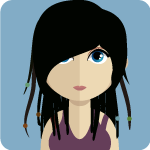
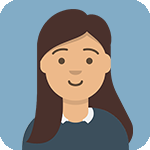
intergrate marie work

diff --git a/index.html b/index.html
@@ -74,97 +74,188 @@
 
         <div id="core" class="container">
             <div id="catchphrase">
-                <h1 class="text-lighter">
+			    <h1 class="text-lighter">
                     <b>11H42 vous accompagne </b>pour transformer votre idée en réalité !</h1>
-                <hr>
-                <h1 class="text-lighter">
-                    Il vous manque l'expertise technique, le recul nécessaire afin de prendre les bonnes décisions ?
-                    <br/>
-                    <b>Ensemble, nous pouvons le faire !</b>
-                </h1>
+			</div>					
+			<div class="row">		
+				<div class="col-sm-6 col-xs-12">
+					<h1 class="section-title text-orange" align="left">11H42 - QUI SOMMES NOUS ?</h1>
+					<h2 class="text-lighter" align="left">
+						ACCÉLÉRATEUR DE PROJETS NUMÉRIQUES </h2>
+					<hr>
+					<h2 class="text-lighter" align="left">
+						<b> 11h42 </b> est l'accélérateur de projet numériques de la société 
+						<b>
+							<a href="http://akema.fr" target="_blank">AKEMA SAS
+							</a>
+						</b>
+						11h42 est spécialisé dans le développement de <b> logiciels métier </b> et d’<b>application web et mobile </b>. Avec nos équipes d’experts nous vous accompagnons dans votre projet digital.
+						Nous sommes à vos côtés pour votre développement informatique.	
+					</h2>
+				</div>
+				<div class="col-sm-6 col-xs-12">
+					<h1 class="text-lighter">
+						<br />
+						<br />
+						<br />
+						Il vous manque l'expertise technique, le recul nécessaire afin de prendre les bonnes décisions ?
+						<br/>
+						<b>Ensemble, nous pouvons le faire !</b>
+					
+					</h1>
+				</div>
             </div>
 
 
             <div id="presentation">
                 <h1 class="section-title text-orange">11H42 - LE CONCEPT</h1>
                 <h2 class="text-lighter">
-                    <b>11H42</b> est l'accélérateur de projet numériques de la société
-                    <b>
-                        <a href="http://akema.fr" target="_blank">AKEMA SAS
-                        </a>
+
                     </b>
-                    <br/> Afin de transformer vos idées en projets, nous seront à vos côtés sur les points suivants :
+                    <br/> Afin de transformer vos idées en projets, nous serons à vos côtés sur les points suivants :
                 </h2>
                 <div class="row">
                     <div class="service-picto col-md-3 col-sm-6 col-xs-12">
                         <img src="./static/images/accompagnement.png" alt="Accompagnement">
-                        <h2>Accompagnement</h2>
+                        <h2>On vous accompagne dès le début</h2>
                         <hr>
-                        <h3 class="text-lighter">Ciblage des idées, montage du dossier et du cahier des charges</h3>
+                        <h3 class="text-lighter">Écoute et découverte du projet <br />Ciblage des idées <br />Etude de faisabilité (POC)<br />Réalisation de cahier des charges <br />Budgétisation </h3>
                     </div>
                     <div class="service-picto col-md-3 col-sm-6 col-xs-12">
                         <img src="./static/images/faisabilite.png" alt="Faisabilité">
-                        <h2>Faisabilité</h2>
+                        <h2>Création, Conception et développement</h2>
                         <hr>
-                        <h3 class="text-lighter">Réalisation des études de faisabilité (v0.0) jusqu'au prototype fonctionnel
+                        <h3 class="text-lighter">Charte graphique <br />Expérience utilisateur UX <br />Interface utilisateur UI <br />Responsive design <br />Développement technique <br />Prototype fonctionnel
                         </h3>
                     </div>
                     <div class="service-picto col-md-3 col-sm-6 col-xs-12">
                         <img src="./static/images/creation.png" alt="Création">
-                        <h2>Création</h2>
+                        <h2>Test & Recette</h2>
+						<br />
                         <hr>
-                        <h3 class="text-lighter">Création et tutorat pour la constitution de votre structure</h3>
+                        <h3 class="text-lighter">Réalisation de test unitaire <br />On s'adapte à vos contraintes métiers <br />Intégration en continu <br />Optimisations techniques</h3>
                     </div>
                     <div class="service-picto col-md-3 col-sm-6 col-xs-12">
                         <img src="./static/images/assistance.png" alt="Assistance">
-                        <h2>Assistance</h2>
+                        <h2>Livraison et Installation</h2>
+						<br />
                         <hr>
-                        <h3 class="text-lighter">Valorisation et mise en avant de votre projet et de votre entreprise</h3>
+                        <h3 class="text-lighter">Installation du logiciel <br />Accompagnement dans la prise en main <br />Transfert de compétences <br />Assistance technique</h3>
                     </div>
                 </div>
             </div>
-
+			
+            <div id="Nos services">
+                <h1 class="section-title text-orange">11H42 - NOS SERVICES</h1>
+				<h2> Création de logiciel sur-mesure </h2>
+                <div class="row">
+				    <br />
+                    <div class="col-sm-6 col-xs-12">
+                        <h2>Applications métiers Web et Mobiles</h2>
+                        <hr>
+                        <h3 class="text-lighter">Vous avez une super idée d'application innovante mais vous ne savez pas comment la mettre en place ? Venez partager votre idée avec nos experts et on sera ravi de vous conseiller et de développer pour vous votre application !</h3>
+                        <h2>Logiciels métiers professionnels</h2>
+                        <hr>
+                        <h3 class="text-lighter">Vous ne trouvez pas de logiciel métier répondant à votre besoin . 11h42 vous accompagne dans votre transformation numérique. On s'adapte à vos besoins et nous développons un logiciel sur mesure adapté à votre structure et à votre activité.
+                        </h3>
+                    </div>
+                    <div class="col-sm-6 col-xs-12">
+                <div class="réalisations">
+					    <br />
+	                    <br />
+				        <a href="https://www.jepilotemonentreprise.com/"target="_blank" ><img src="./static/images/logo-je-pilote-entreprise.png" align="left" alt="Logo Je pilote mon Entreprise" border="0"></a>
+						<a href="https://apidae.biz/" target="_blank" ><img src="./static/images/apidae.png" align="center" alt="Logo Apidae" border="0"></a>
+                        <a href="https://preva.fr/logiciel/" target="_blank" ><img src="./static/images/logo-preva.png" align="right" alt="Logo Preva" border="0"></a>
+					    <br />
+	                    <br />
+						<br /> 
+						<a href="https://akemail.fr/" target="_blank" ><img src="./static/images/akemail.png" align="left" alt="Logo Akemail" border="0"></a>
+						<a href="https://www.overfull.fr/" target="_blank" ><img src="./static/images/Overfull.png" align="center" alt="Logo Overfull" border="0"></a>
+					    <br />
+	                    <br />
+		                <br />  
+						<a href="https://www.trilogie-sante.com/" target="_blank" ><img src="./static/images/logo-trilogie.png" align="right" alt="Logo Trilogie santé" border="0"></a>
+			        <br />
+					<br />
+					<br />
+					<br />
+                    <a href="#realisations">NOS RÉALISATIONS </a>	
+                </div>					
+                </div>
+				</div>
+            </div>
             <div id="le-lab">
-                <h1 class="section-title text-orange">LE LAB'</h1>
+                <h1 class="section-title text-orange">LE LAB': Nos domaines d'expertise</h1>
                 <h2 class="text-lighter">
                     <b>Le LAB 11h42</b>, c'est avant tout les valeurs suivantes :
                 </h2>
-                <div id="lab-values">
-                    <div class="value">
-                        <h2 class="text-lighter">
-                            <b>L'expertise open-source</b> :</h2>
+			</div>
+            <div id="clients-rows">
+                <div class="row">
+                    <div class="col-sm-6 col-xs-12 product">
+                        <h3>L'expertise open-source</h3>
                         <hr>
-                        <h3 class="text-lighter">En utilisant comme technologies principales Python & Django, notre expertise s’oriente autour de
-                            l’Audit de Code, la reprise d’activité, le transfert de compétences et la formation.
-                        </h3>
-                    </div>
-                    <div class="value">
-                        <h2 class="text-lighter">
-                            <b>L'expertise TDD</b> :</h2>
+                        <h2 class="text-lighter">En utilisant comme technologies principales Python & Django mais aussi JaveScript & Angular, SQL, HTML, CSS,... notre expertise s’oriente autour de l’Audit de Code, la reprise d’activité, le transfert de compétences et la formation.
+                        </h2>                               
+                        </div>
+
+                    <div class="col-sm-6 col-xs-12 product">
+                        <h3>L’expertise TDD</h3>
                         <hr>
-                        <h3 class="text-lighter">Le Développement piloté par les tests Méthode de développement logiciel dans laquelle l’écriture
-                            du code source est dirigée par l’écriture de tests automatisés. Efficace afin de livrer des logiciels
-                            bien construits à l'aide d'une suite de tests de non-régression.
-                        </h3>
-                    </div>
-                    <div class="value">
-                        <h2 class="text-lighter">
-                            <b>La constitution de briques logicielles</b> :</h2>
+                        <h2 <span class="text-lighter"> Le Développement piloté par les tests Méthode de Développement logiciel dans laquelle l’écriture du code source est dirigée par l’écriture de tests automatisés. Une intégration en continue permet de gagner en efficacité afin de livrer des logiciels bien construits à l'aide d'une suite de tests de non-régression.</h2>                               
+                                </span>                                   
+                                </div>
+                            </div>
+                <div class="row">
+                    <div class="col-sm-6 col-xs-12 product">
+                        <h3>La constitution de briques logicielles</h3>
                         <hr>
-                        <h3 class="text-lighter">Optimisation de développement afin de gagner en efficacité et productivité. Réutilisation des modules
-                            applicatifs.
-                        </h3>
-                    </div>
-                    <div class="value">
-                        <h2 class="text-lighter">
-                            <b>Le management des projets via les méthodes agiles</b> :</h2>
+                        <h2   <span class="text-lighter">Optimisation de développement afin de gagner en efficacité et productivité. Réutilisation des modules applicatifs. </h2>                               
+                                </span>                              
+                                </div>
+                <div class="col-sm-6 col-xs-12 product">
+
+                        <h3>Le management des projets via les méthodes agiles</h3>
                         <hr>
-                        <h3 class="text-lighter">Livraison de lots fonctionnels en fin de sprints. Flexibilité des réalisations selon les contraintes
-                            des clients.</h3>
+                        <h2 <span class="text-lighter">Livraison de lots fonctionnels en fin de sprints. Flexibilité des réalisations selon les contraintes des clients.</h2>                               .</span>
+
                     </div>
                 </div>
             </div>
-
+            <div id="missions">
+                <h1 class="section-title text-orange">LE LAB' : Nos Missions</h1>
+                <div class="row">
+                    <div class="service-picto col-md-3 col-sm-6 col-xs-12">
+                        <h2>Mettre à votre service notre expertise</h2>
+						<br />
+						<img src="./static/images/code.png" alt="Code" align="center" class="width-auto" >
+						<br />
+                        <hr>
+                        <h3 class="text-lighter">On développe un logiciel sur-mesure pour vous fournir un produit qui répond à vos attentes. </h3>
+                    </div>
+                    <div class="service-picto col-md-3 col-sm-6 col-xs-12">
+                        <h2>Vous accompagnez dans votre transformation digitale</h2>
+						<br />
+						<img src="./static/images/transformation digitale.png" class="width-auto" alt="Code" align="center" >
+                        <hr>
+                        <h3 class="text-lighter">On vous aide à mettre en oeuvre vos projets digitaux, pour une transformation numérique qui se passe bien.</h3>
+                    </div>
+                    <div class="service-picto col-md-3 col-sm-6 col-xs-12">
+                        <h2>Faire de votre projet un succès</h2>
+						<br />
+						<img src="./static/images/reussite du projet.png" class="width-auto" alt="Code" align="center" >
+                        <hr>
+                        <h3 class="text-lighter">Nous vous accompagnons et vous conseillons pour vous fournir un logiciel performant.</h3>
+                    </div>
+                    <div class="service-picto col-md-3 col-sm-6 col-xs-12">
+                        <h2>Vous rendre satisfait et heureux</h2>
+						<br />
+						<img src="./static/images/smile.png" class="width-auto" alt="emoticone heureux" align="center" >
+                        <hr>
+                        <h3 class="text-lighter">Nous mettons tout en oeuvre pour répondre à vos attentes et vous rendre satisfait vous et vos utilisateurs.</h3>
+                    </div>
+                </div>
+            </div>
             <div id="realisations">
                 <div class="row">
                     <div id="first-slide" class="col-xs-6">
@@ -237,10 +328,10 @@
                                 </div>
 
                                 <div class="col-sm-6 col-xs-12 product">
-                                    <img src="./static/images/logo_trilogie.png" alt="Logo Trilogie santé">
-                                    <h3>Organisation de congrès
-                                        <span class="text-lighter">Spécialisée dans le secteur d'activité de l'organisation de foires, salons professionnels
-                                            et congrès dans le domaine de la santé.</span>
+                                    <img src="./static/images/overfull.png" alt="Logo Overfull">
+                                    <h3>Overfull, cahier de réservation numérique
+                                        <span class="text-lighter">Overfull est une application de gestion des réservations pour les restaurateurs. 
+										      C’est un cahier de réservation numérique qui dispose de nombreuses fonctionnalités. </span>
                                     </h3>
                                 </div>
                             </div>
@@ -255,9 +346,9 @@
                                 </div>
 
                                 <div class="col-sm-6 col-xs-12 product">
-                                    <img src="./static/images/logo_preva.png" alt="Logo Preva">
+                                    <img src="./static/images/logo-preva.png" alt="Logo Preva">
                                     <h3>Evaluation et Prévention du risque en entreprise :
-                                        <span class="text-lighter">Il facilite l'élaboration du document unique et desplans de prévention,pour les entreprises
+                                        <span class="text-lighter"> Le logiciel facilite l'élaboration du document unique et des plans de prévention, pour les entreprises
                                             et les collectivités.</span>
                                     </h3>
                                 </div>
@@ -282,7 +373,7 @@
 
 
             <div id="team">
-                <h1 class="section-title text-orange">NOTRE ÉQUIPE</h1>
+                <h1 class="section-title text-orange">NOTRE ÉQUIPE DE PASSIONNÉS</h1>
                 <div class="row">
                     <div class="member-profile col-sm-3 col-xs-6">
                         <img src="./static/images/avatars/fred.png" alt="Photo Frédéric">
@@ -297,7 +388,7 @@
                     </div>
 
                     <div class="member-profile col-sm-3 col-xs-6">
-                        <img src="./static/images/avatars/po.png" alt="Photo Pierre-Olivier">
+                        <img src="./static/images/avatars/pierre Olivier.png" alt="Photo Pierre-Olivier">
                         <h3>Pierre-Olivier</h3>
                         <h4 class="text-lighter">DevOps & SysAdmin</h4>
                     </div>
@@ -309,9 +400,9 @@
                     </div>
 
                     <div class="member-profile col-sm-3 col-xs-6">
-                        <img src="./static/images/avatars/catherine.png" alt="Photo Catherine">
-                        <h3>Catherine</h3>
-                        <h4 class="text-lighter">Développeuse & Webdesigner</h4>
+                        <img src="./static/images/avatars/john.png" alt="Photo John">
+                        <h3>John</h3>
+                        <h4 class="text-lighter">Dévops spécialisé en Cloud</h4>
                     </div>
 
                     <div class="member-profile col-sm-3 col-xs-6">
@@ -331,6 +422,18 @@
                         <h3>Mélanie</h3>
                         <h4 class="text-lighter">Responsable Commerciale</h4>
                     </div>
+					
+					<div class="member-profile col-sm-3 col-xs-6">
+                        <img src="./static/images/avatars/maxence.png" alt="Photo Maxence">
+                        <h3>Maxence</h3>
+                        <h4 class="text-lighter">Développeur Fullstack</h4>
+                    </div>
+					
+                    <div class="member-profile col-sm-3 col-xs-6">
+                        <img src="./static/images/avatars/Marie.png" alt="Photo Marie">
+                        <h3>Marie</h3>
+                        <h4 class="text-lighter">Chargée web marketing</h4>
+                    </div>
                     
                 </div>
 
@@ -340,6 +443,7 @@
         <div id="footer">
             <div class="container">
                 <div class="row">
+				<h1>Venez discuter de votre projet avec nous autour d'un café et d'une chocolatine ou d'un pain au chocolat selon vos préférences :) </h1>
                     <div class="col-sm-4 col-xs-6">
                         <h1>Nous joindre par mail</h1>
                         <form method="post" action="https://formspree.io/contact@11h42.com">
@@ -350,7 +454,7 @@
                             <br/>
                             <input type="text" name="subject" placeholder="Sujet">
                             <br/>
-                            <textarea name="message" placeholder="Votre message"></textarea>
+                            <textarea name="message" placeholder="Parlez-nous de votre projet"></textarea>
                             <br/>
                             <input type="submit" value="Envoyer">
                         </form>
@@ -358,7 +462,7 @@
                     <div class="col-sm-3 col-xs-6 col-sm-offset-1 text-center">
                         <h1>Nos bureaux</h1>
                         <h3>11h42 - AKEMA SAS
-                            <br/> 54 rue Gustave Eiffel 3360 Canéjan, France
+                            <br/> 4 Voie Romaine 33610 Canéjan, France
                             <br/> Tél: 05 56 78 72 50
                             <br/> Fax: 09 72 36 01 93
                         </h3>

diff --git a/static/style.scss b/static/style.scss
@@ -216,7 +216,7 @@ body {
       text-align: center;
       padding: 30px;
 
-      img {
+      img:not(.width-auto) {
         width: 80%;
       }
     }
@@ -252,7 +252,7 @@ body {
         transition: opacity 1s ease-in-out;
 
         .product img {
-          padding: 20px;
+          padding: 10px;
           height: 100px;
         }
 
@@ -344,6 +344,8 @@ body {
     width: 100%;
     position: relative;
     background-image: url('./images/footer_11h42.png');
+	background-repeat: no-repeat;
+	background-color:orange;
     padding-top: 220px;
     padding-bottom: 70px;
     color: white;
@@ -377,7 +379,7 @@ body {
       }
 
       #by-akema {
-        font-family: "Visual Establishment", sans-serif;
+        font-family: "Roboto Condensed", sans-serif;
       }
     }
   }

diff --git a/static/style.css b/static/style.css
@@ -141,7 +141,7 @@ body {
   #wrapper #core .service-picto {
     text-align: center;
     padding: 30px; }
-    #wrapper #core .service-picto img {
+    #wrapper #core .service-picto img:not(.width-auto) {
       width: 80%; }
   #wrapper #core #lab-values {
     text-align: left; }
@@ -211,6 +211,8 @@ body {
   width: 100%;
   position: relative;
   background-image: url("./images/footer_11h42.png");
+  background-repeat: no-repeat;
+  background-color: #eb661c;
   padding-top: 220px;
   padding-bottom: 70px;
   color: white; }
